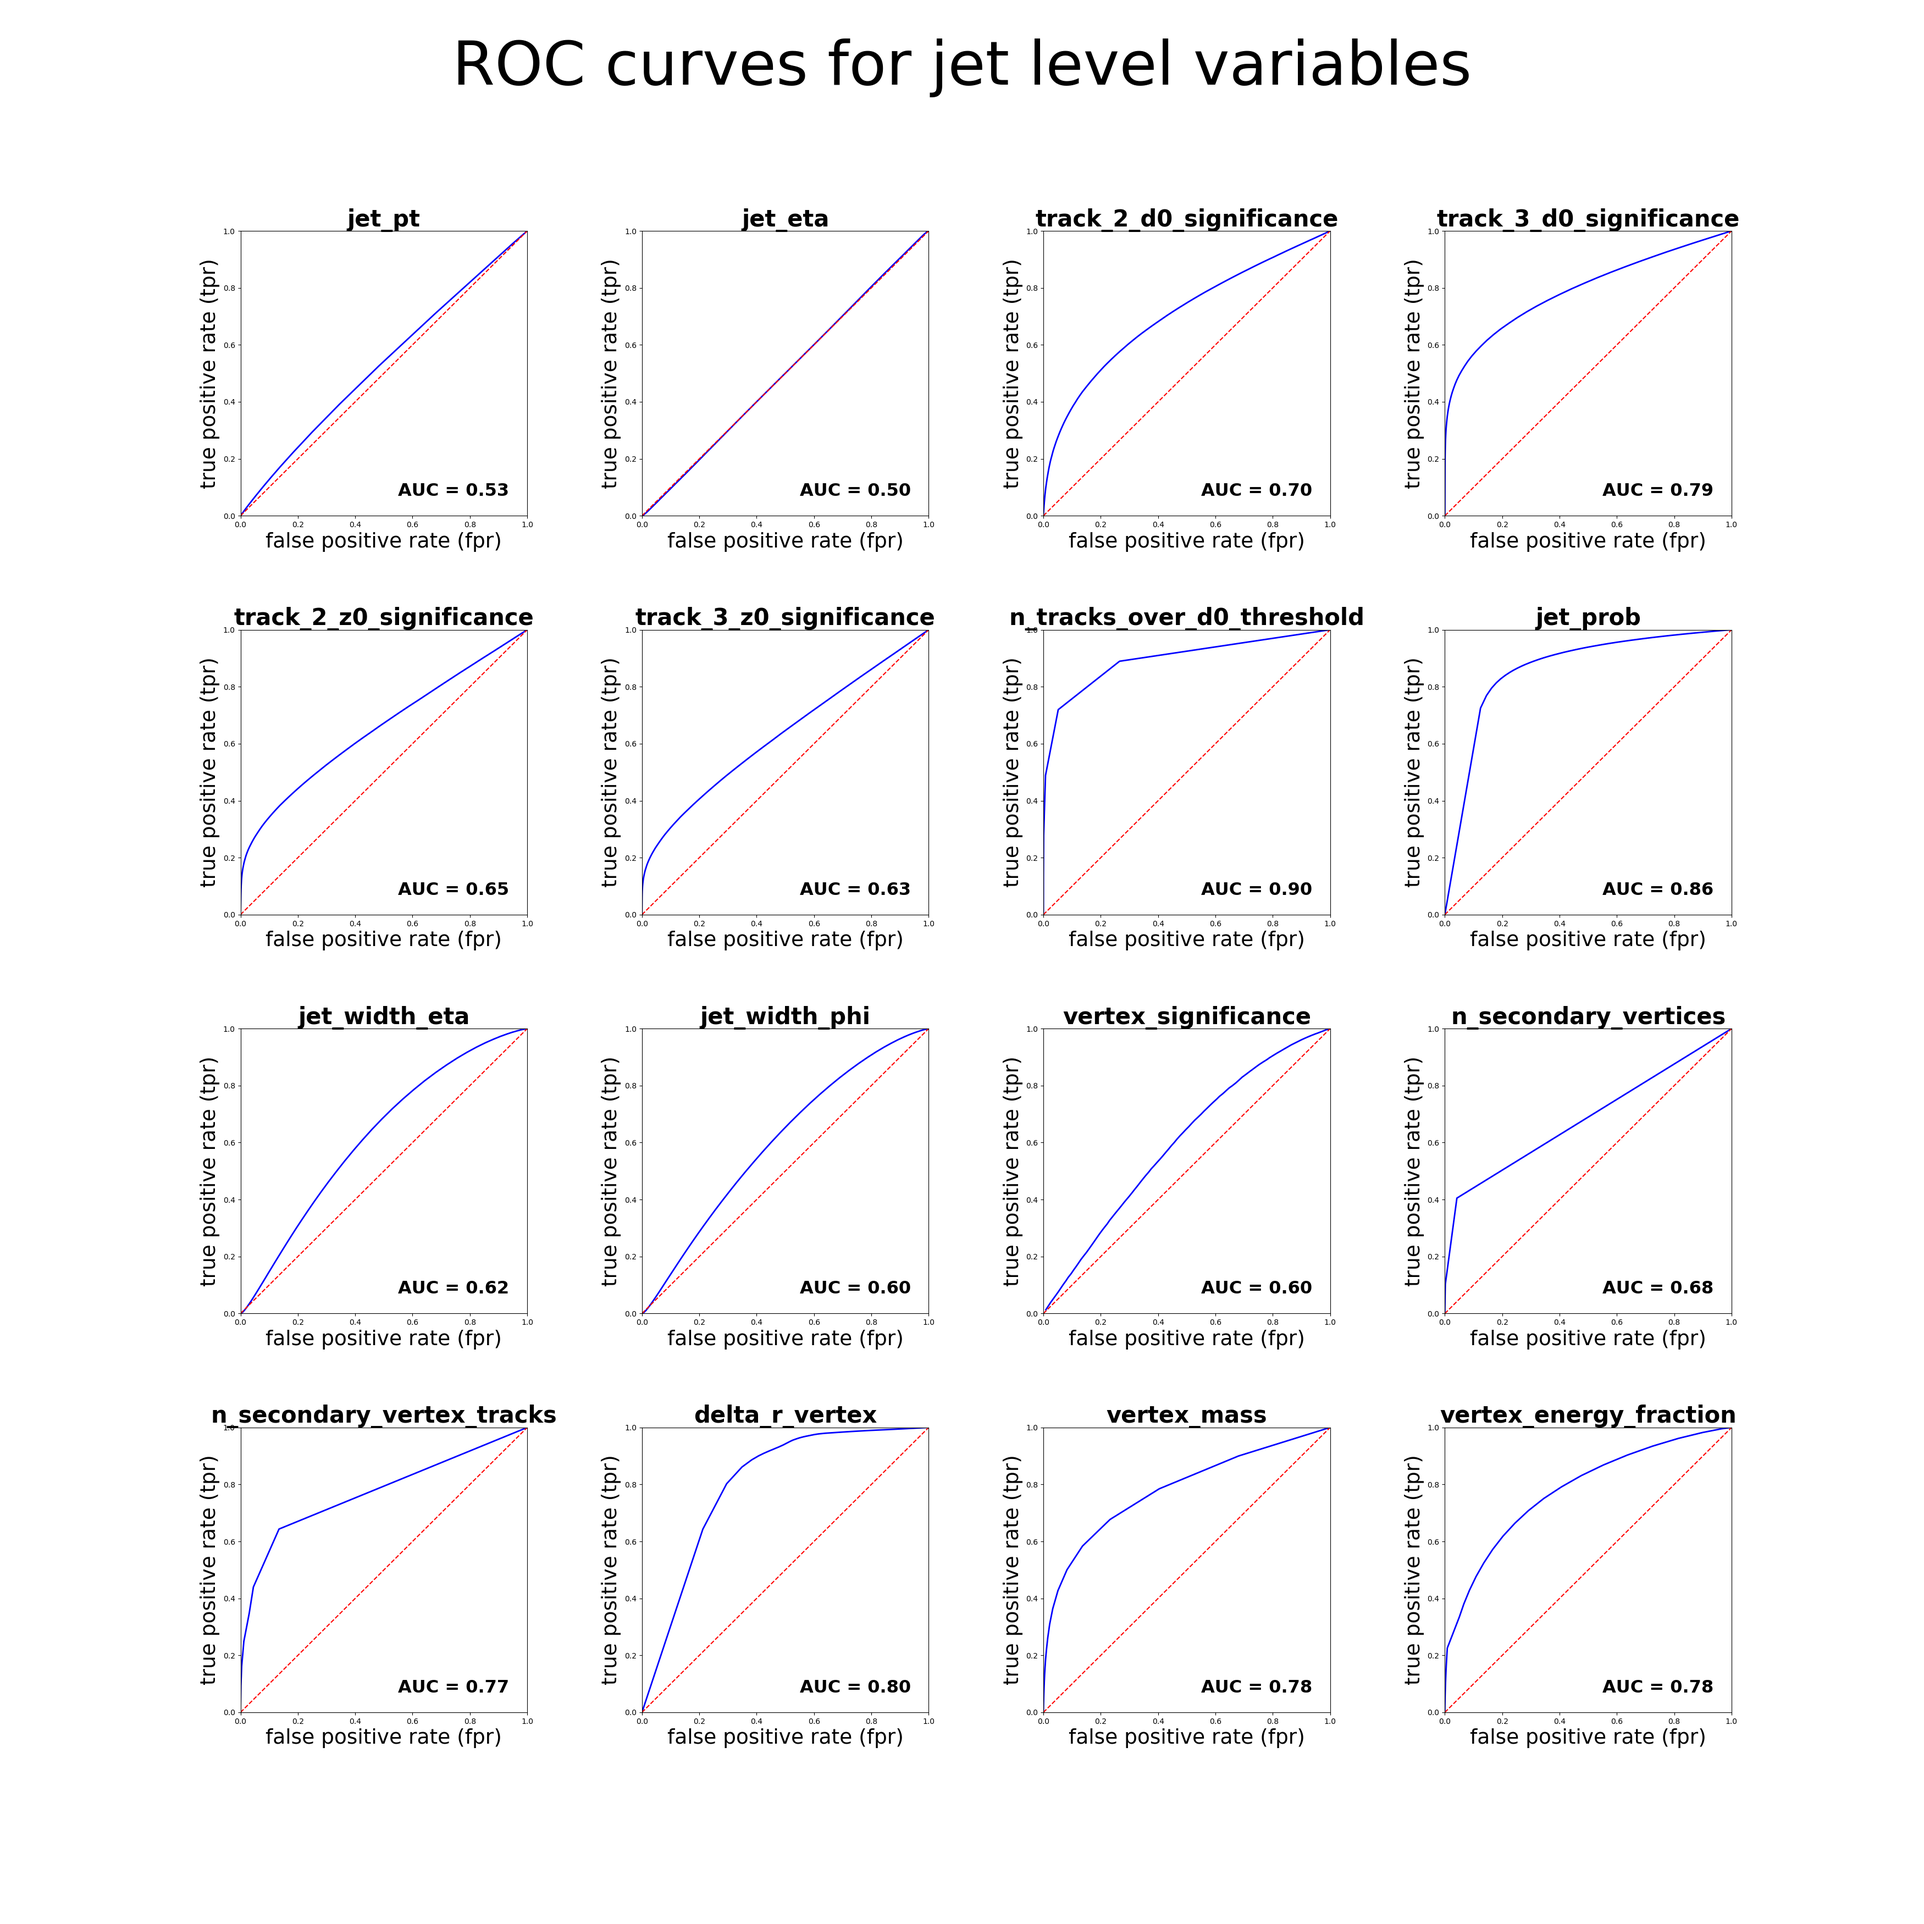
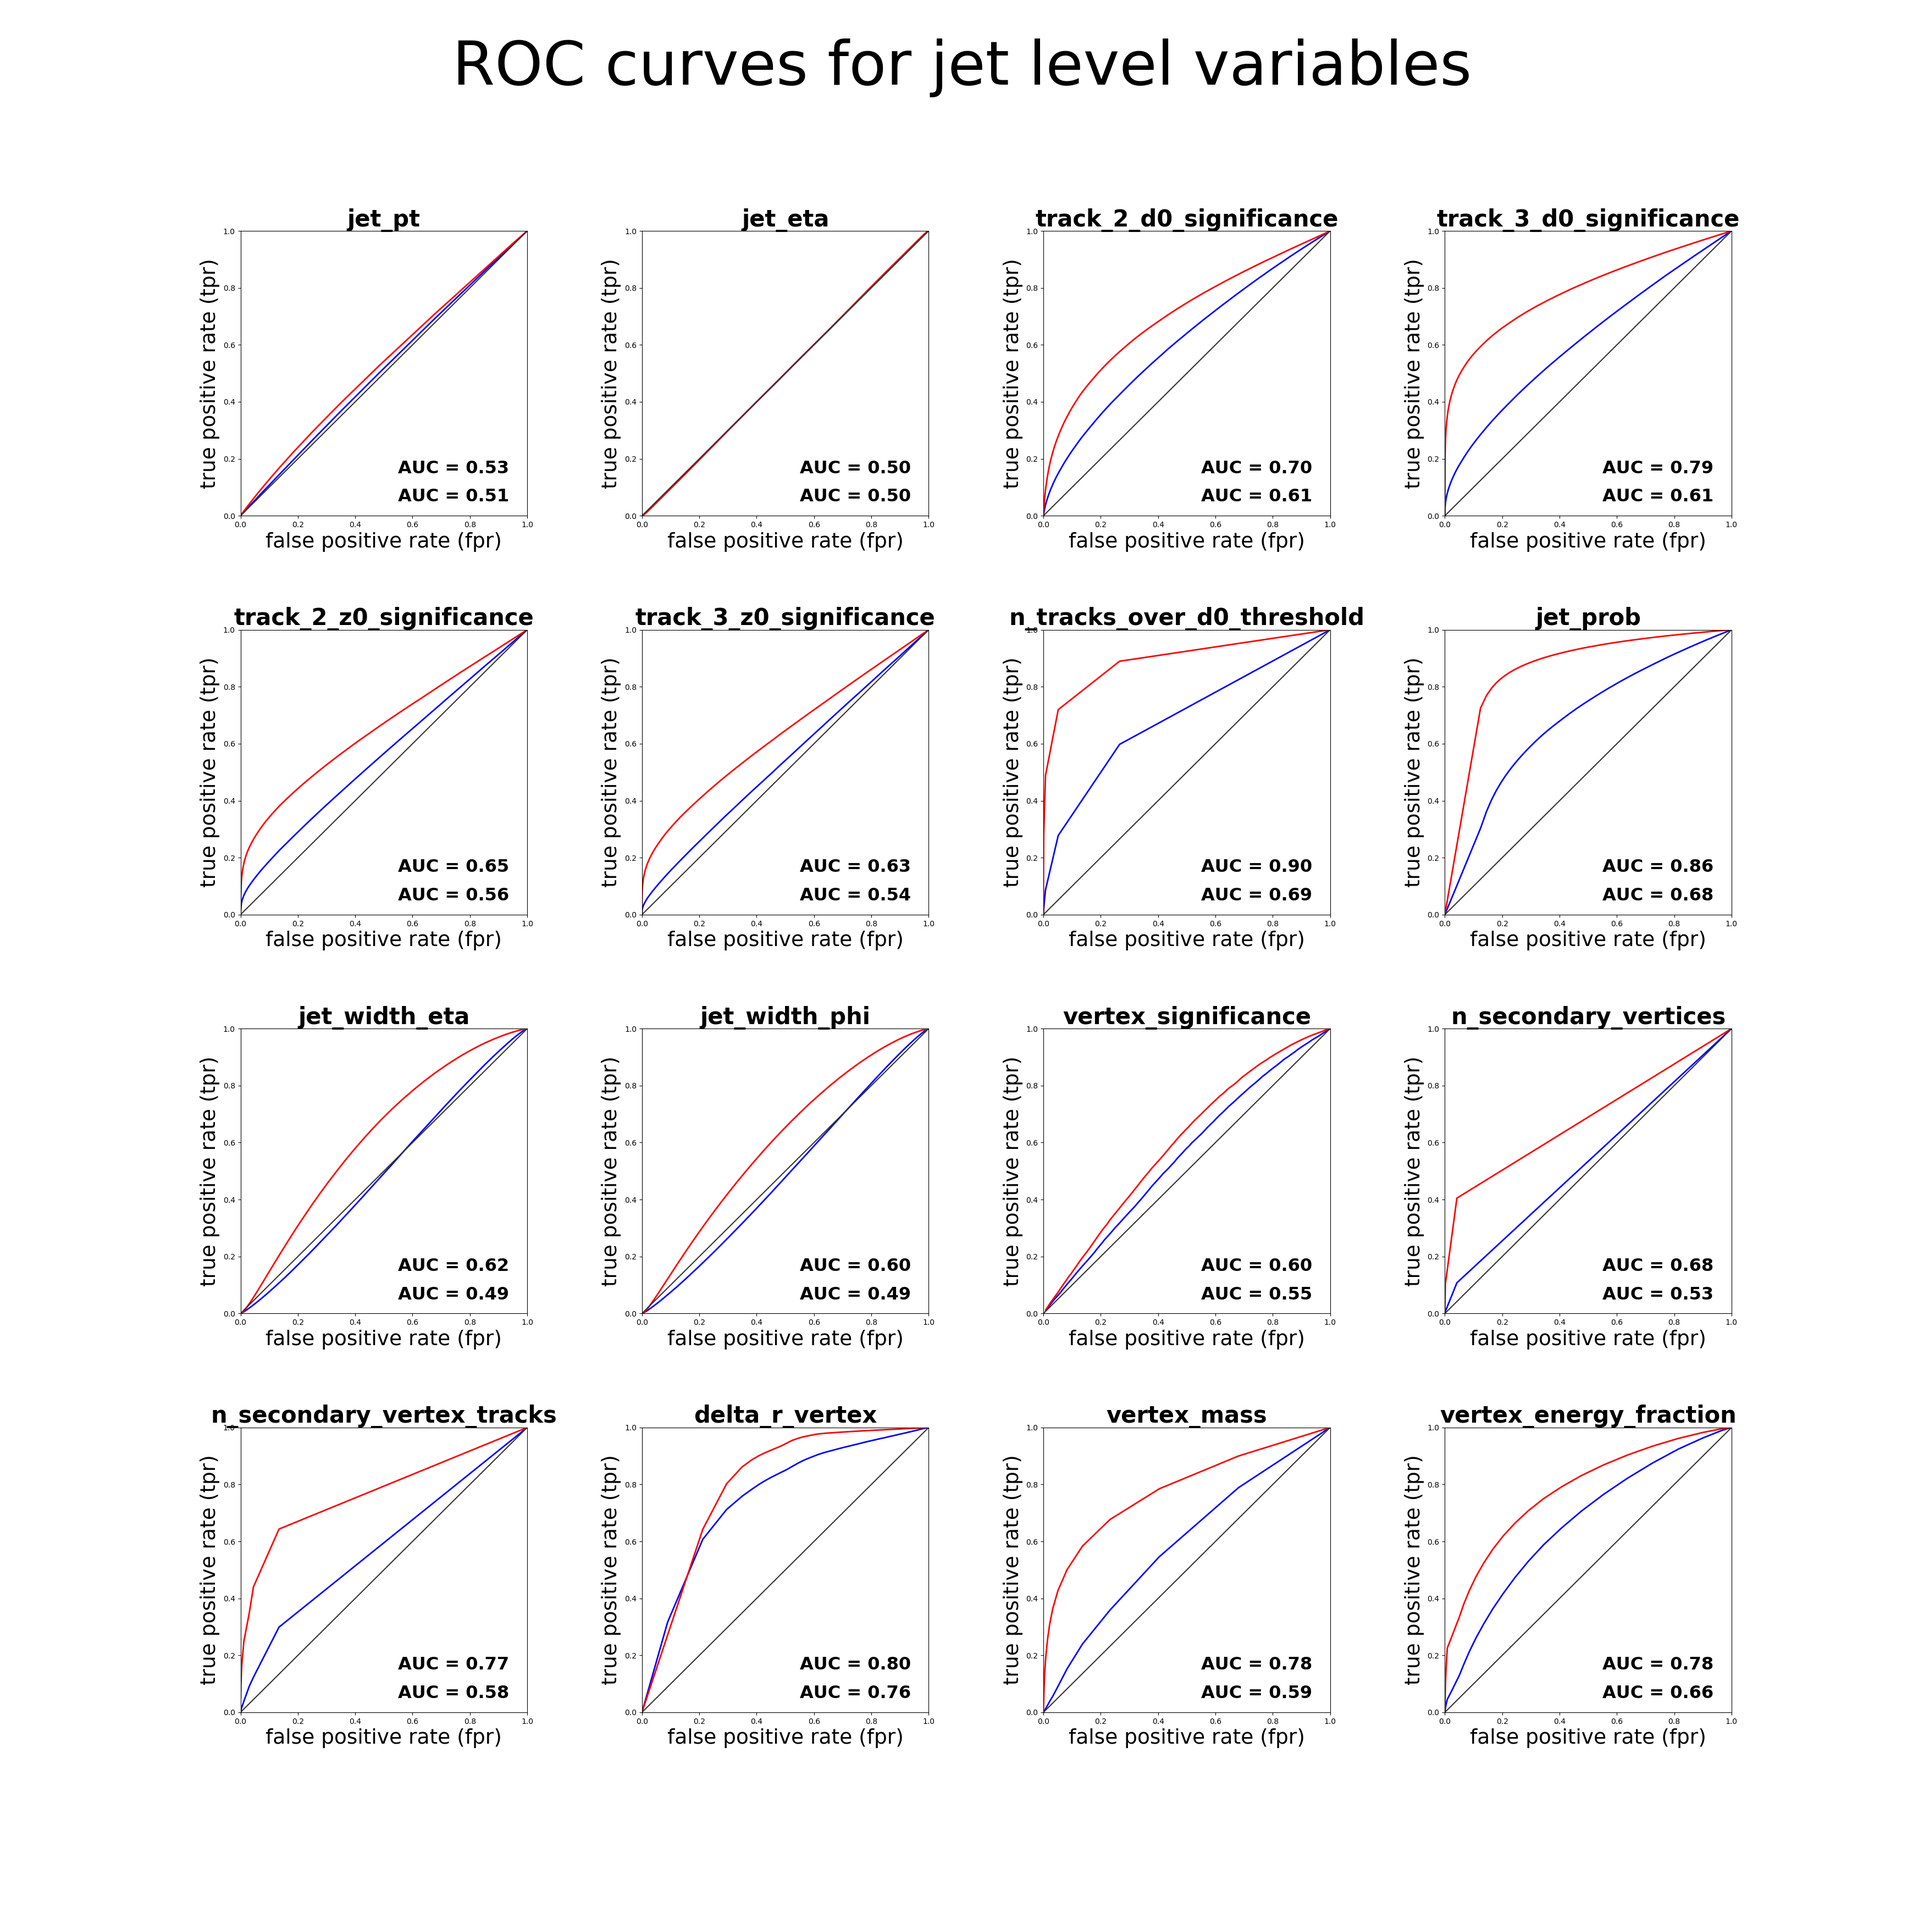
ROC for variables

diff --git a/track_collect_total_c.py b/track_collect_total_c.py
@@ -46,6 +46,11 @@ histo_bg_collector = []
 histo_c_collector = []
 bin_collector = []
 
+
+fig = plt.figure(0, figsize=(35,35))
+fig.suptitle('ROC curves for jet level variables', fontsize=80, weight='roman')
+fig.subplots_adjust(hspace=0.4, wspace=0.4)
+
 #histogram for each variable k
 for k in range(high_sig_collect.shape[2]):
 
@@ -76,6 +81,8 @@ for k in range(high_sig_collect.shape[2]):
     hist_c, bins = np.histogram(c, normed=True, bins=bins)
     hist_bg, bins = np.histogram(bg, normed=True, bins=bins)
     
+    #normal plots
+    plt.figure(1)
     pltBg = plt.plot(bins[:-1], hist_bg, drawstyle='steps-post', color='0.2', label='bg')
     pltC = plt.plot(bins[:-1], hist_c, drawstyle='steps-post', color='blue', label='charm')
     pltSig = plt.plot(bins[:-1], hist_sig, drawstyle='steps-post', color='red', label='bottom')
@@ -85,13 +92,84 @@ for k in range(high_sig_collect.shape[2]):
     plt.legend(loc='upper right')
     plt.savefig('h'+str(k)+'.png')
     plt.clf()
+    
+    #ROC
+    tpr = []
+    fpr = []
+    tprc = []
+    fprc = []
 
-histo_sig_collector = np.asarray(histo_sig_collector)
-histo_c_collector = np.asarray(histo_c_collector)
-histo_bg_collector = np.asarray(histo_bg_collector)
-bin_collector = np.asarray(bin_collector)
+    sigFreqSum = np.sum(hist_sig)
+    cFreqSum = np.sum(hist_c)
+    bgFreqSum = np.sum(hist_bg)
+    
+    for j in range(hist_sig.shape[0]): # looping each histo_sig
+        if high_var[k] in ['jet_prob', 'delta_r_vertex']:
+            TP = np.sum(hist_sig[0:j+1])
+            FN = np.sum(hist_bg[0:j+1])
+            tpr.append(TP / float(sigFreqSum))
+            fpr.append(FN / float(bgFreqSum))
+        else:    # flip symmetry along dash line in ROC
+            TP = np.sum(hist_sig[j:])
+            FN = np.sum(hist_bg[j:])
+            tpr.append(TP / float(sigFreqSum))
+            fpr.append(FN / float(bgFreqSum))
+            
+    for j in range(hist_c.shape[0]): # looping each histo_sig
+        if high_var[k] in ['jet_prob', 'delta_r_vertex']:
+            TP = np.sum(hist_c[0:j+1])
+            FN = np.sum(hist_bg[0:j+1])
+            tprc.append(TP / float(cFreqSum))
+            fprc.append(FN / float(bgFreqSum))
+        else:    # flip symmetry along dash line in ROC
+            TP = np.sum(hist_c[j:])
+            FN = np.sum(hist_bg[j:])
+            tprc.append(TP / float(cFreqSum))
+            fprc.append(FN / float(bgFreqSum))
 
-np.savetxt("histo_sig_collector.csv", histo_sig_collector, delimiter=',')
-np.savetxt("histo_c_collector.csv", histo_c_collector, delimiter=',')
-np.savetxt("histo_bg_collector.csv", histo_bg_collector, delimiter=',')
-np.savetxt("bin_collector.csv", bin_collector, delimiter=',')
+    if high_var[k] in ['jet_prob', 'delta_r_vertex']:
+        tpr = [0.0] + tpr
+        fpr = [0.0] + fpr
+        tprc = [0.0] + tprc
+        fprc = [0.0] + fprc
+
+    tpr, fpr, tprc, fprc = np.asarray(tpr), np.asarray(fpr), np.asarray(tprc), np.asarray(fprc)
+    
+    #AUC
+    ufpr = np.unique(fpr)
+    utpr = []
+    for i in range(len(ufpr)):
+        ind = np.where(fpr == ufpr[i])
+        utpr.append(np.max(tpr[ind]))
+
+    utpr = np.asarray(utpr)
+    
+    AUCb = np.trapz(utpr, x=ufpr)
+    st_AUCb = "AUC = " + str('%.2f' % round(AUCb, 2))
+    
+    ufprc = np.unique(fprc)
+    utprc = []
+    for i in range(len(ufprc)):
+        ind = np.where(fprc == ufprc[i])
+        utprc.append(np.max(tprc[ind]))
+
+    utprc = np.asarray(utprc)
+
+    AUCc = np.trapz(utprc, x=ufprc)
+    st_AUCc = "AUC = " + str('%.2f' % round(AUCc, 2))
+    
+    plt.figure(0)
+    ax = fig.add_subplot(4,4,k+1)
+    ax.plot(fprc, tprc, linewidth=2, color='blue', lw=2)   #drawstyle='steps-post'
+    ax.plot(fpr, tpr, linewidth=2, color='red', lw=2)   #drawstyle='steps-post'
+    ax.plot([0,1],[0,1], color='0.2', lw=1.5)
+    ax.set_xlim([0,1])
+    ax.set_ylim([0,1])
+    ax.text(0.55,0.15, st_AUCb, fontsize=23, weight=550)
+    ax.text(0.55,0.05, st_AUCc, fontsize=23, weight=550)
+    ax.set_xlabel('false positive rate (fpr)', fontsize=27)
+    ax.set_ylabel('true positive rate (tpr)', fontsize=27)
+    ax.set_title(high_var[k], fontsize=30, weight=550)
+
+fig.savefig('High_Level_PR_Rev3'+'.png')
+
